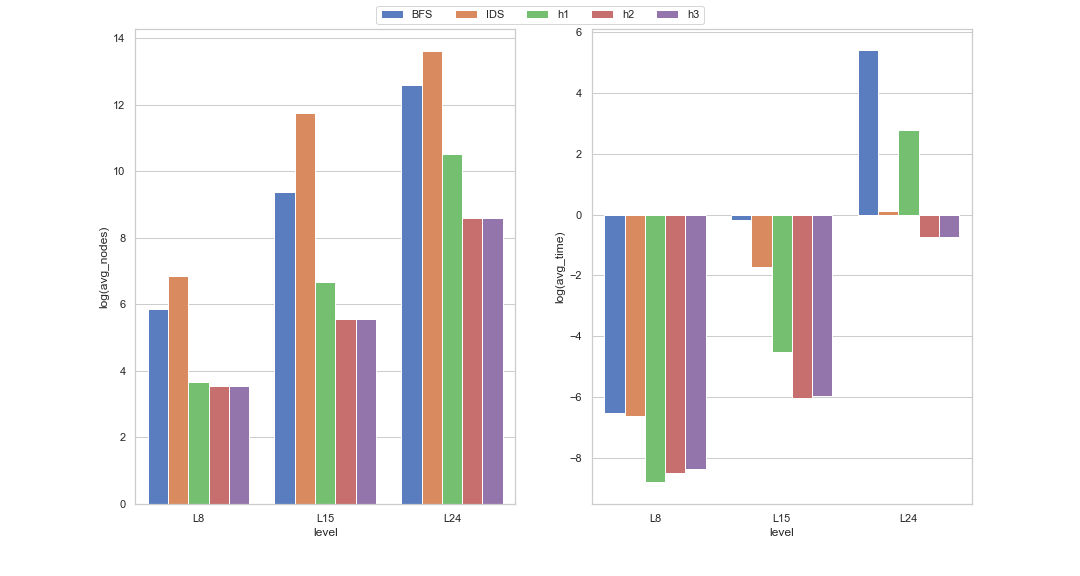
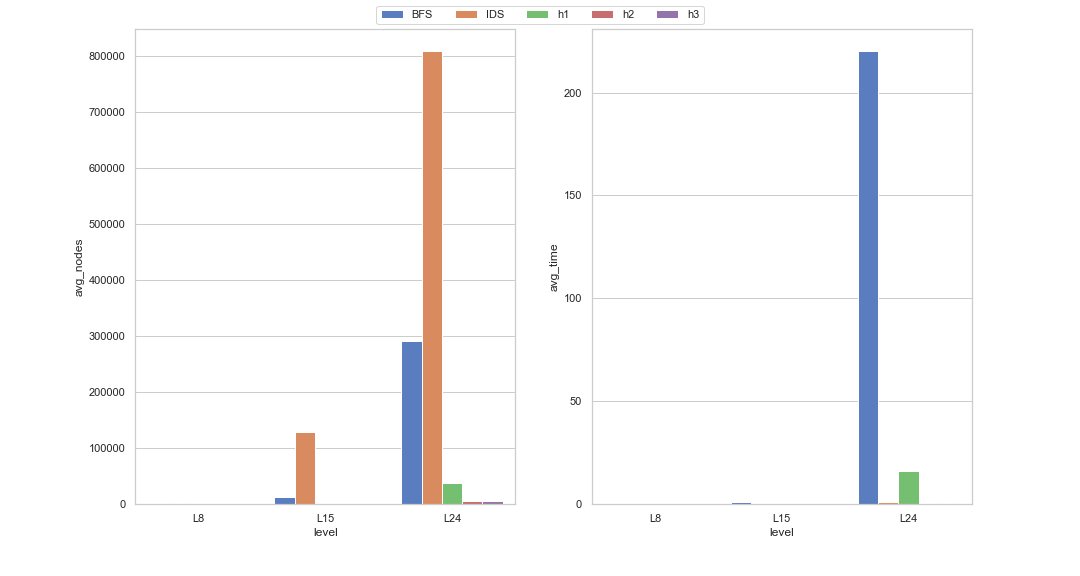
added conclusion

diff --git a/README.md b/README.md
@@ -7,6 +7,7 @@
   - [Run Part 2](#run-part-2)
   - [Run Part 3](#run-part-3)
   - [Analysis of performance](#analysis-of-performance)
+  - [Conclusions](#conclusions)
 
 ## File directory
 
@@ -25,7 +26,7 @@ The following algorithms are implemented in search
 2. IDS (Iterative deepening DFS)
 3. A\* with misplaced title heuristic. (h1)
 4. A\* with Manhattan distance heuristic (h2).
-5. A\* with one more heuristic (invent or check the literature for this) (h3)
+5. A\* with max of misplaced tile and Manhattan distance heuristic (h3).
 
 ## Puzzle format
 
@@ -132,6 +133,12 @@ output is in [submit/part3.txt](submit/part3.txt)
 
 ## Analysis of performance
 
+![table](figs/table.jpeg)
+
 ![graph](figs/graph.png)
 
-![table](figs/table.jpeg)
+![logged graph](figs/log_graph.png)
+
+## Conclusions
+
+On L8, we can observe that IDS generates 3 times more nodes but has a similar average runtime compared to BFS. However, heuristic search algorithms (h1, h2, h3) are ~10x faster and generates 10x fewer nodes on average compared to BFS and IDS. On this level, h1 is faster than h2 and h3, but as the level increases, h2 and h3 is similar in performance (both runtime and \#nodes) and is much faster than h1. BFS and IDS also increases exponentially as levels increase, where BFS is slower than IDS but generates fewer nodes on average, and IDS is faster but generates far more on average. Overall the best algorithm is h2, which is the Manhattan distance heuristic, but h3 follows closely behind.
